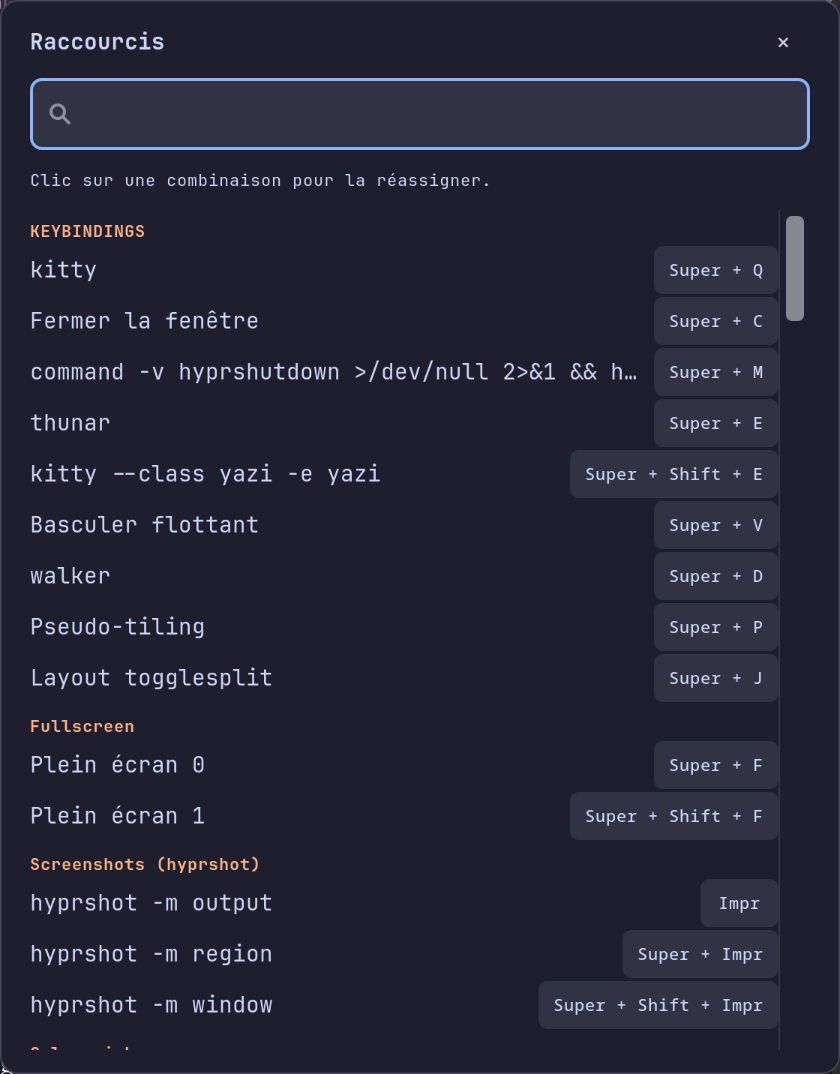
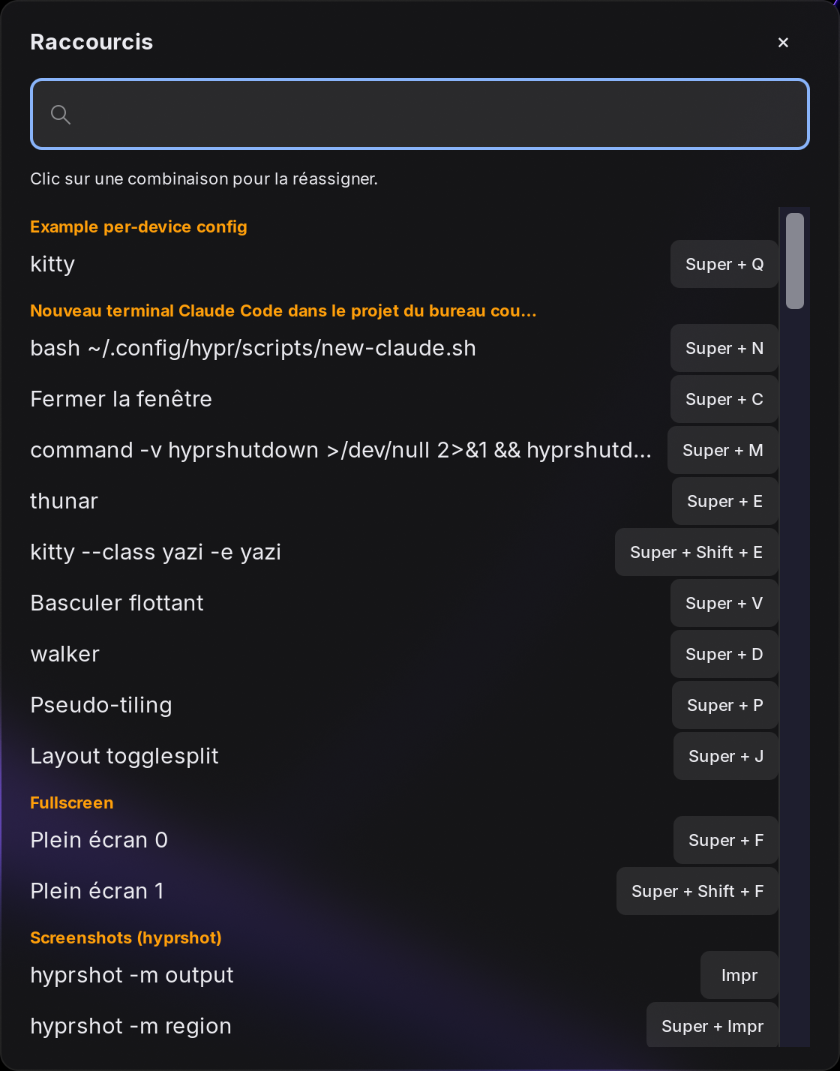
Refresh screenshots for the macOS-style redesign
Bar, Sound, Shortcuts and Hidden modules popups recaptured on the current
theme. Section titles in the shortcuts menu now come from the first line of
a comment block instead of the last, which produced nonsensical headings.

https://claude.ai/code/session_01XStR5mcNHfY45AfRatSBp9

diff --git a/keybinds-menu.py b/keybinds-menu.py
@@ -208,16 +208,24 @@ def parse_binds():
         super_var = next((name for name, value in variables.items()
                           if value.strip().upper() in ("SUPER", "MOD4")), None)
         section = ""
+        in_comment_block = False
         for lineno, line in enumerate(lines):
             stripped = line.strip()
             # Un commentaire seul sert de titre de section pour les binds
             # suivants. On écarte les séparateurs, les URL et les phrases
             # trop longues, qui ne font pas des titres lisibles.
+            #
+            # Seule la PREMIÈRE ligne d'un bloc de commentaires contigu est
+            # retenue : les suivantes prolongent la phrase et donnent des
+            # titres absurdes (« côté écran, d'où la lettre voisine. »).
             if stripped.startswith("#"):
-                text = stripped.strip("#").strip()
-                if text and not text.startswith("-") and "http" not in text:
-                    section = shorten_section(text)
+                if not in_comment_block:
+                    text = stripped.strip("#").strip()
+                    if text and not text.startswith("-") and "http" not in text:
+                        section = shorten_section(text)
+                in_comment_block = True
                 continue
+            in_comment_block = False
             if not stripped:
                 continue
             m = BIND_RE.match(line)
